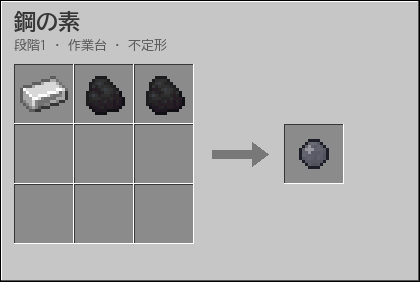
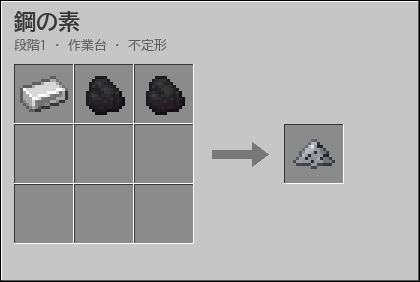
Tell the steel blend and the mass pellet apart
The steel blend becomes a pile of iron powder with coal specks and the
mass pellet a dark sphere ringed by violet distortion. Both are centered,
and the HD pack doubles the same pixels.

Changed region(s): [[0.681, 0.4823, 0.8048, 0.5957]]

diff --git a/tools/art16.py b/tools/art16.py
@@ -1615,8 +1615,31 @@ def tablet(glow):
                                d.rectangle([3, 2, 12, 13], outline=(236, 238, 240, 255))))
 
 
-def pellet(c):
-    return outlined(lambda d: (d.ellipse([4, 4, 11, 11], fill=rgba(c)), d.ellipse([5, 5, 7, 7], fill=rgba(lighten(c, 0.35)))))
+def steel_blend():
+    """鋼の素（0.21.0。質量ペレットと見分けるため玉から変えた）: 銀灰色の粉の小山（左右対称）に、石炭の黒い粒が混ざる。"""
+    iron, coal = (150, 152, 160), (40, 40, 46)
+
+    def f(d):
+        d.polygon([(2, 12), (5, 8), (7, 6), (8, 6), (10, 8), (13, 12), (8, 13), (7, 13)], fill=rgba(iron))
+        d.polygon([(5, 8), (7, 6), (8, 6), (6, 9), (4, 10)], fill=rgba(lighten(iron, 0.3)))
+        d.polygon([(10, 8), (13, 12), (11, 12)], fill=rgba(darken(iron, 0.2)))
+        for x, y in ((5, 11), (8, 9), (10, 11), (7, 12), (11, 10), (6, 10), (9, 7)):
+            d.point((x, y), fill=rgba(coal))
+        d.point((7, 7), fill=(230, 232, 238, 255))
+    return vcenter(outlined(f, **SOFT_EDGE))
+
+
+def mass_pellet():
+    """質量ペレット（0.21.0。鋼の素と見分けるため玉から変えた）: 濃い黒の玉を、空間のゆがみの菫色の輪が斜めに巡る（輪の奥側は玉に隠れる）。"""
+    dense, glow = (52, 50, 70), (170, 120, 255)
+
+    def f(d):
+        d.ellipse([1, 6, 14, 12], outline=rgba(darken(glow, 0.35)))
+        d.ellipse([4, 3, 11, 10], fill=rgba(dense))
+        d.ellipse([5, 4, 8, 6], fill=rgba(lighten(dense, 0.25)))
+        d.arc([1, 6, 14, 12], 20, 160, fill=rgba(glow))
+        d.point((5, 5), fill=rgba(lighten(glow, 0.5)))
+    return vcenter(outlined(f))
 
 
 # ---------------------------------------------------------------- 隕石・雷・深海・虚空の素材と、中間素材
@@ -2198,7 +2221,7 @@ ITEM_ART = {
     'sports_drink': lambda: drink_can((240, 244, 248), (60, 120, 220), (240, 244, 248)),
     'energy_drink': lambda: drink_can((250, 206, 40), (40, 40, 44), (250, 206, 40)),
     'coffee': lambda: coffee_bottle(),
-    'steel_blend': lambda: pellet((92, 92, 104)),
+    'steel_blend': steel_blend,
     'steel_ingot': lambda: vcenter(ingot(STEEL)),
     'unfired_ceramic': lambda: plate((190, 178, 164)),
     'white_ceramic_composite': lambda: plate((236, 238, 240)),
@@ -2243,7 +2266,7 @@ ITEM_ART = {
     'data_card_observation_log': lambda: card(T1),
     'data_card_quantum_fragment': lambda: card(T3),
     'data_card_culture_data': lambda: card(T4),
-    'mass_pellet': lambda: pellet((82, 86, 98)),
+    'mass_pellet': mass_pellet,
     'superconducting_coil': lambda: coil(COPPER, (200, 230, 250)),
     'superconducting_wire': lambda: spool((150, 210, 240)),
     'muon_bundle': lambda: tracks(T2),

diff --git a/tools/art.py b/tools/art.py
@@ -778,14 +778,6 @@ def item_tablet(glow):
     return outlined(f)
 
 
-def item_pellet(color):
-    def f(d):
-        d.ellipse([9, 9, 22, 22], fill=rgba(color))
-        d.ellipse([11, 11, 16, 15], fill=rgba(lighten(color, 0.3)))
-        d.arc([9, 9, 22, 22], 30, 150, fill=rgba(darken(color, 0.3)))
-    return outlined(f)
-
-
 def item_tracks(color):
     def f(d):
         for k, (a, r) in enumerate(((0.3, 13), (1.4, 12), (2.6, 14), (3.9, 11), (5.1, 13))):
@@ -856,7 +848,8 @@ COPPER = (214, 130, 80)
 STEEL = (170, 176, 186)
 
 ITEM_ART = {
-    'steel_blend': lambda: item_pellet((90, 90, 100)),
+    # 0.21.0: 16×16 の絵をそのまま2倍にする（質量ペレットと見分ける形）
+    'steel_blend': lambda: __import__('art16').steel_blend().resize((S, S), Image.NEAREST),
     'steel_ingot': lambda: item_ingot(STEEL),
     'unfired_ceramic': lambda: item_plate((190, 178, 164)),
     'white_ceramic_composite': lambda: item_plate((236, 238, 240)),
@@ -871,7 +864,7 @@ ITEM_ART = {
     'data_card_observation_log': lambda: item_card(T1),
     'data_card_quantum_fragment': lambda: item_card(T3),
     'data_card_culture_data': lambda: item_card(T4),
-    'mass_pellet': lambda: item_pellet((80, 84, 96)),
+    'mass_pellet': lambda: __import__('art16').mass_pellet().resize((S, S), Image.NEAREST),
     'superconducting_coil': lambda: item_coil(COPPER, (200, 230, 250)),
     'superconducting_wire': lambda: item_spool((150, 210, 240)),
     'muon_bundle': lambda: item_tracks(T2),
